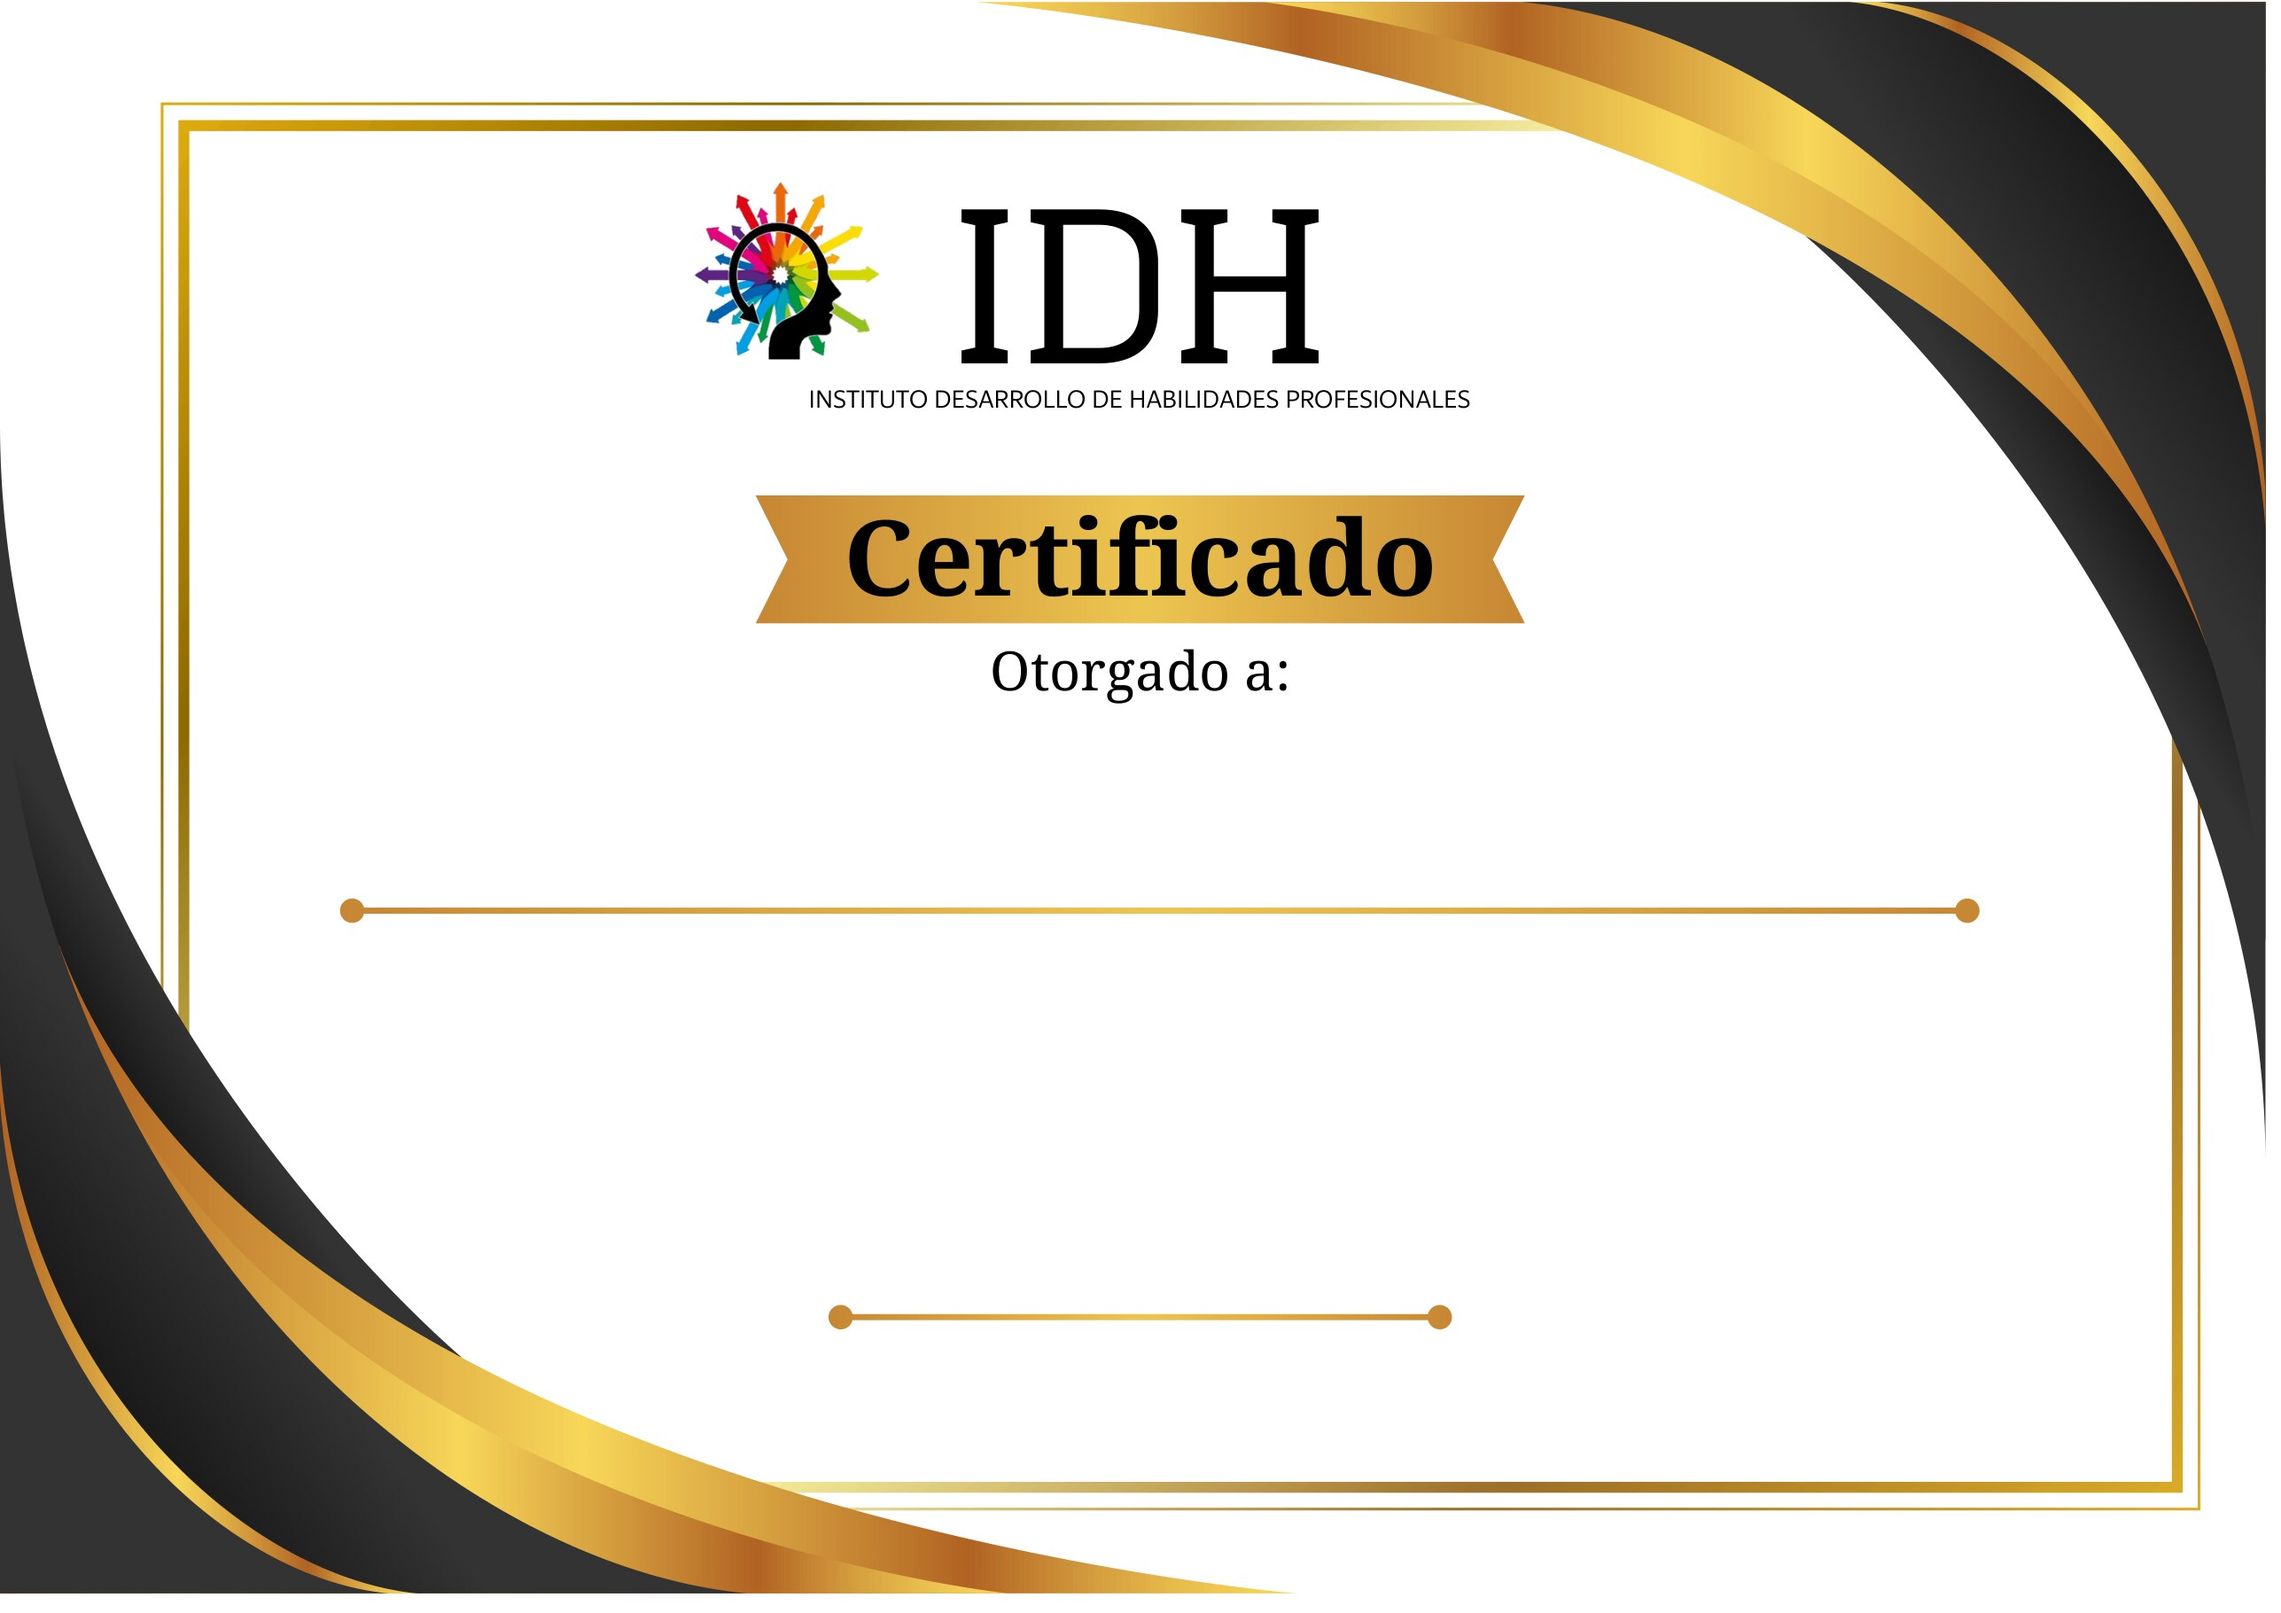
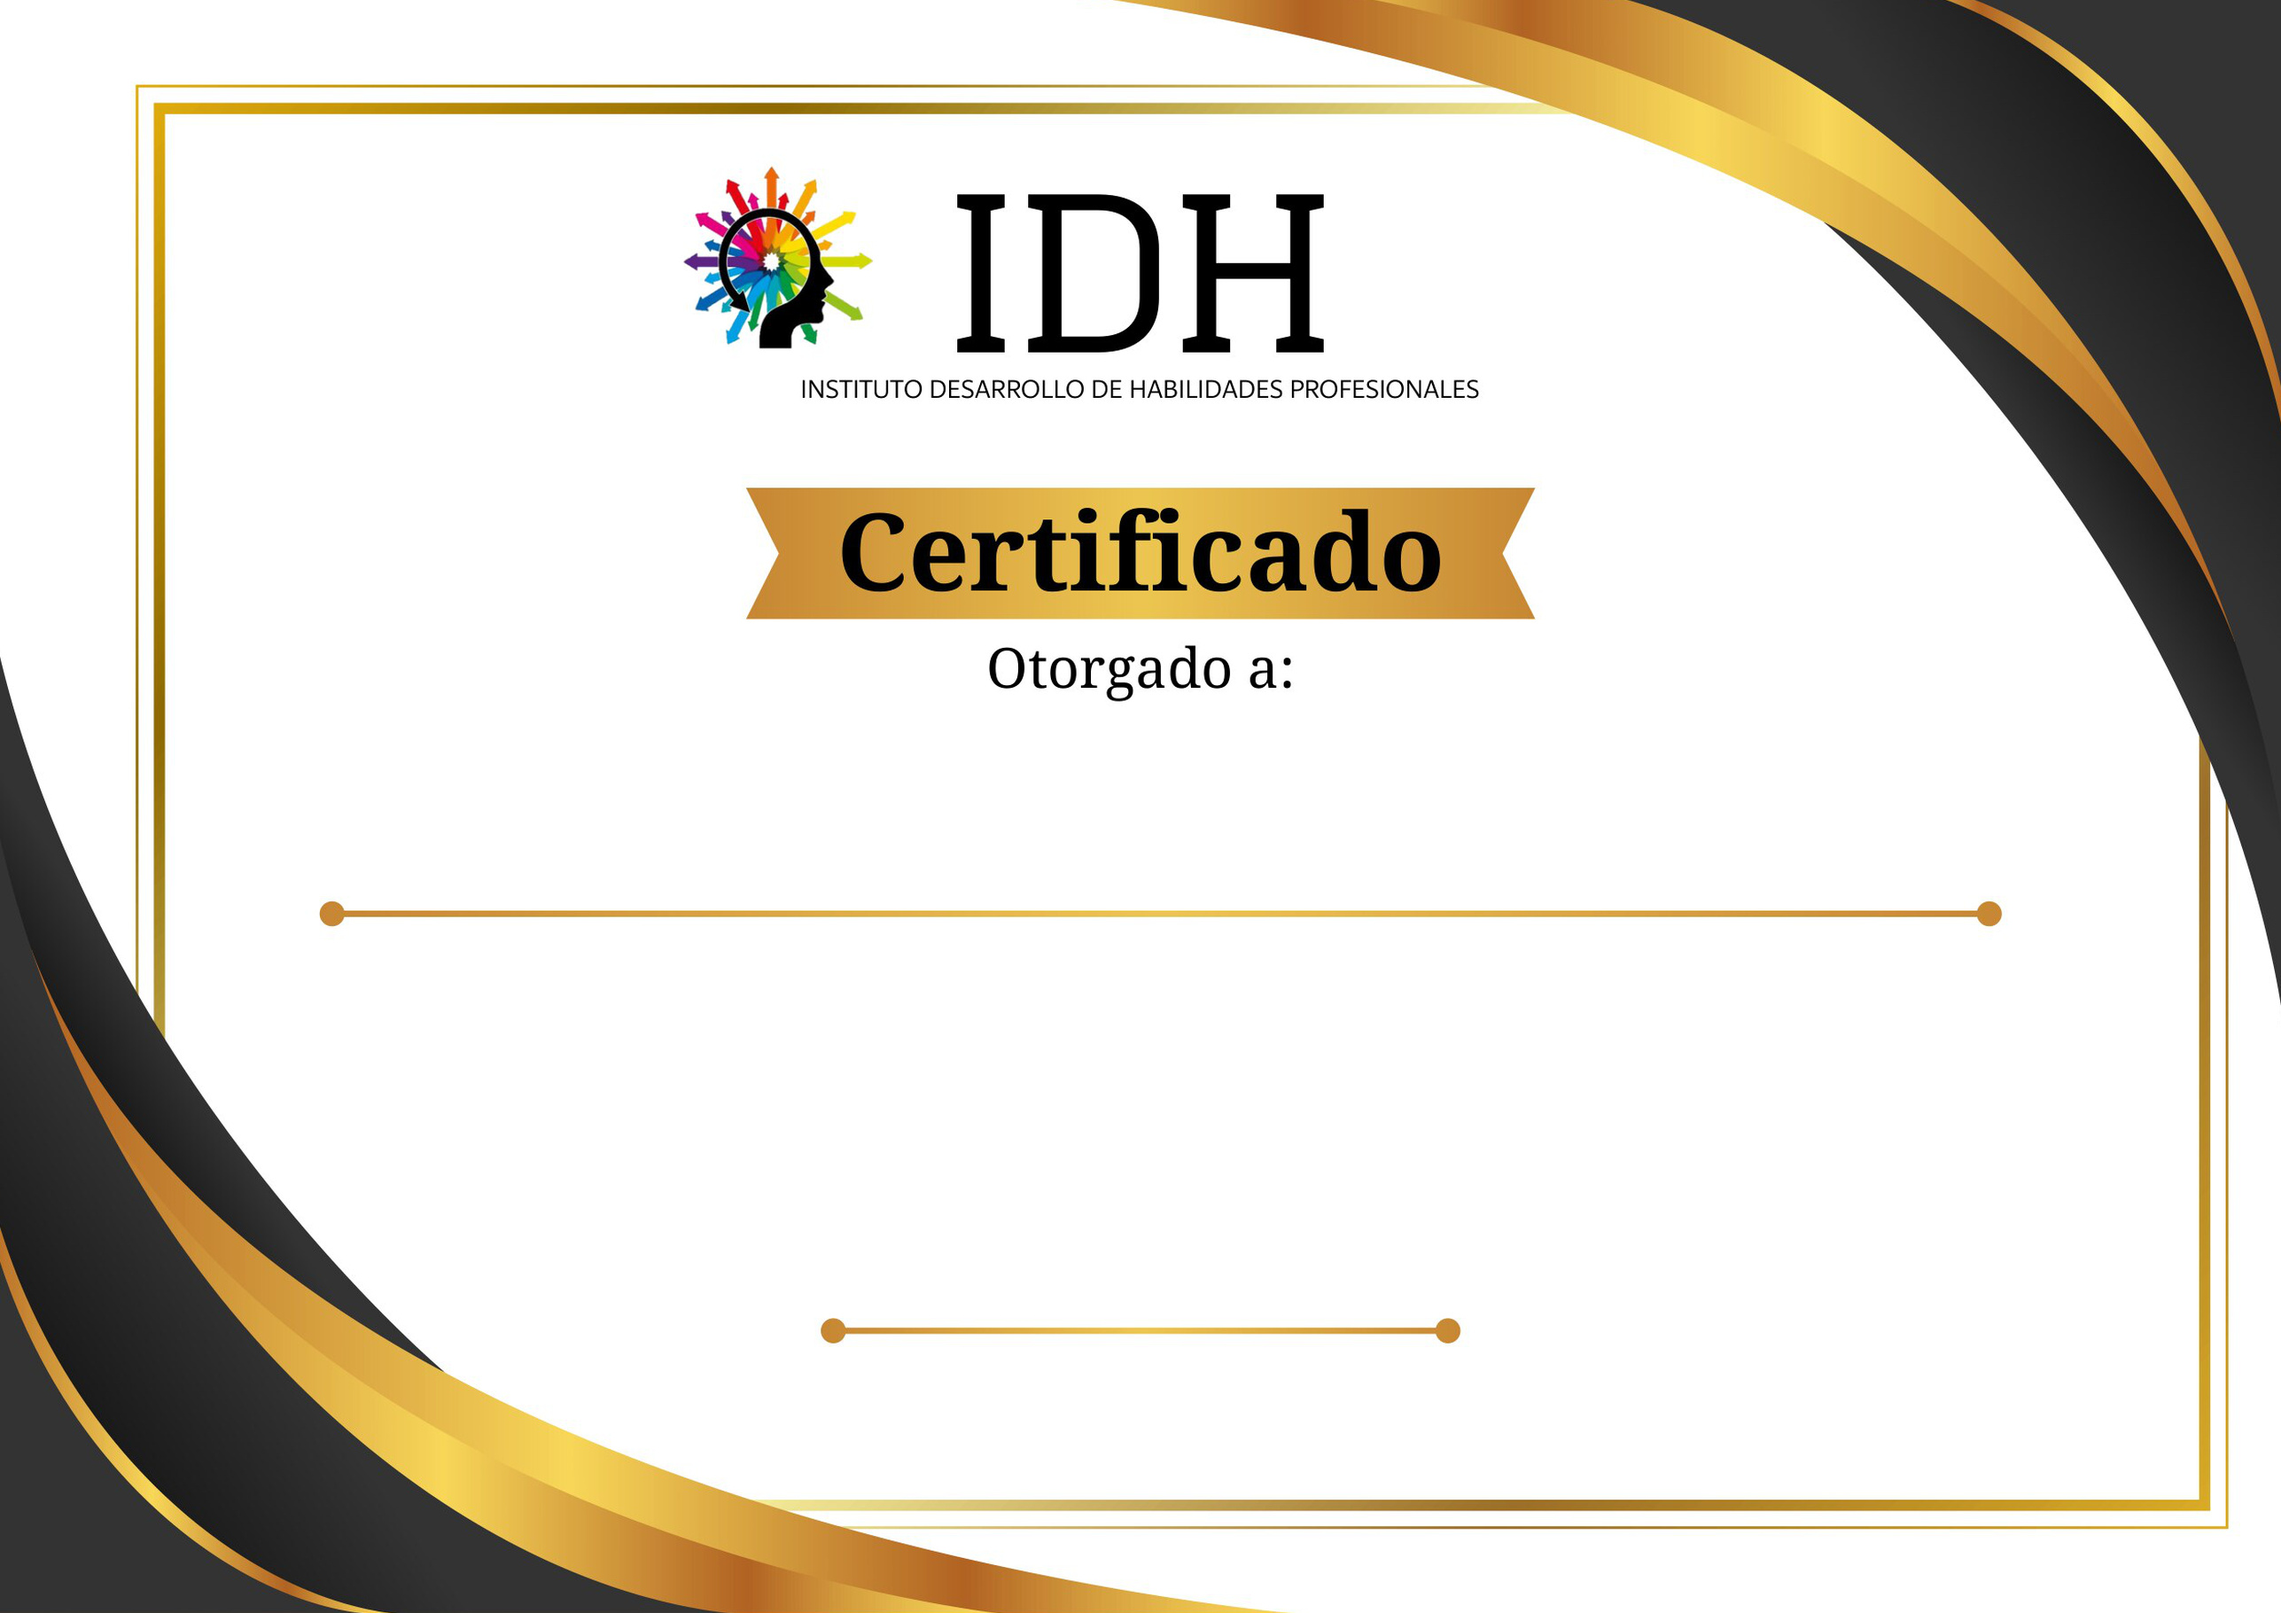
fix(aula): certificado dorado sin margen blanco, con QR en el anverso y firma más nítida
- Los fondos tenían una franja blanca en el borde (17 px a la derecha, 22 abajo): se amplían desde el centro y se recorta, y las posiciones verticales del texto del anverso siguen la misma transformación.
- El QR de verificación sale también en la primera hoja.
- La firma usa la imagen de 375×298 px (antes 206×164).

diff --git a/plugins/idh-aula/templates/certificados/especializacion.php b/plugins/idh-aula/templates/certificados/especializacion.php
@@ -41,6 +41,17 @@ $signer_centers = [
     3 => [ 230, 421.1, 612 ],
 ];
 $centers = $signer_centers[ max( 1, count( $signers ) ) ];
+
+// El fondo del anverso se amplió un 2,6 % desde el centro de la hoja para recortar la franja blanca de
+// su borde (ver assets/certificados/especializacion). Lo dibujado en el fondo (marco, líneas, firma)
+// se movió con él, así que las posiciones verticales del anverso se llevan por la misma transformación.
+$bg_scale = 1.026;
+$fy       = static function ( $y ) use ( $bg_scale ) {
+    return round( 297.75 + ( $y - 297.75 ) * $bg_scale, 2 );
+};
+$fx       = static function ( $x ) use ( $bg_scale ) {
+    return round( 421.125 + ( $x - 421.125 ) * $bg_scale, 2 );
+};
 ?>
 <!DOCTYPE html>
 <html lang="es">
@@ -65,13 +76,14 @@ $centers = $signer_centers[ max( 1, count( $signers ) ) ];
 
     /* Anverso */
     .name { left: 71.1pt; width: 700pt; font-family: 'Script'; line-height: 1; }
-    .paragraph { position: absolute; left: 90.9pt; width: 692pt; top: 347.9pt; font-size: 16pt; line-height: 0.909; text-align: center; }
-    .sign-img { position: absolute; top: 413.7pt; width: 122.3pt; height: 96.8pt; }
-    .seal-img { position: absolute; top: 416.5pt; width: 138.8pt; height: 123.8pt; }
-    .sign-extra-line { position: absolute; top: 485.4pt; width: 216pt; height: 0; border-top: 2.1pt solid #c9a24a; }
+    .paragraph { position: absolute; left: 90.9pt; width: 692pt; top: <?php echo $fy( 347.9 ); ?>pt; font-size: 16pt; line-height: 0.909; text-align: center; }
+    .sign-img { position: absolute; top: <?php echo $fy( 413.7 ); ?>pt; width: 122.3pt; height: 96.8pt; }
+    .seal-img { position: absolute; top: <?php echo $fy( 416.5 ); ?>pt; width: 138.8pt; height: 123.8pt; }
+    .qr-front { position: absolute; left: <?php echo $fx( 702 ); ?>pt; top: <?php echo $fy( 450 ); ?>pt; width: 76pt; height: 76pt; }
+    .sign-extra-line { position: absolute; top: <?php echo $fy( 485.4 ); ?>pt; width: 216pt; height: 0; border-top: 2.1pt solid #c9a24a; }
     .sign-name, .sign-role { width: 240pt; font-size: 14pt; line-height: 1; }
-    .sign-name { top: 489.5pt; font-weight: bold; }
-    .sign-role { top: 506pt; }
+    .sign-name { top: <?php echo $fy( 489.5 ); ?>pt; font-weight: bold; }
+    .sign-role { top: <?php echo $fy( 506 ); ?>pt; }
 
     /* Reverso */
     .type { left: 81.8pt; top: 159.8pt; font-family: 'Bai'; font-size: 14pt; line-height: 1; }
@@ -90,7 +102,7 @@ $centers = $signer_centers[ max( 1, count( $signers ) ) ];
 <div class="page">
     <img class="bg" src="<?php echo $assets; ?>fondo-anverso.jpg" alt="">
 
-    <div class="abs c name" style="font-size:<?php echo $name_size; ?>pt; top:<?php echo 312.5 - 1.103 * $name_size; ?>pt;"><?php echo $e( $name ); ?></div>
+    <div class="abs c name" style="font-size:<?php echo $name_size; ?>pt; top:<?php echo $fy( 312.5 ) - 1.103 * $name_size; ?>pt;"><?php echo $e( $name ); ?></div>
 
     <div class="paragraph">
         <?php if ( 'session' === $kind ) : ?>
@@ -115,6 +127,10 @@ $centers = $signer_centers[ max( 1, count( $signers ) ) ];
         <div class="abs c sign-name" style="left:<?php echo $cx - 120; ?>pt;"><?php echo $e( $signer['name'] ?? '' ); ?></div>
         <div class="abs c sign-role" style="left:<?php echo $cx - 120; ?>pt;"><?php echo $e( $signer['role'] ?? '' ); ?></div>
     <?php endforeach; ?>
+
+    <?php if ( $qr ) : ?>
+        <img class="qr-front" src="<?php echo $qr; ?>" alt="QR">
+    <?php endif; ?>
 </div>
 
 <div class="page last">
